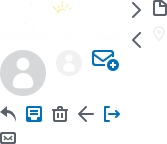
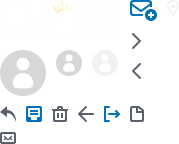
APQD-34 new mail contacts dropdown + fix counter in main nav

diff --git a/src/main/scss/_sprites.scss b/src/main/scss/_sprites.scss
@@ -12,16 +12,16 @@ At the bottom of this section, we provide information about the spritesheet itse
 $spritesheet: width height image $spritesheet-sprites;
 */
 $icon-add-contact-name: 'icon-add-contact';
-$icon-add-contact-x: 92px;
-$icon-add-contact-y: 50px;
-$icon-add-contact-offset-x: -92px;
-$icon-add-contact-offset-y: -50px;
+$icon-add-contact-x: 130px;
+$icon-add-contact-y: 0px;
+$icon-add-contact-offset-x: -130px;
+$icon-add-contact-offset-y: 0px;
 $icon-add-contact-width: 27px;
 $icon-add-contact-height: 21px;
-$icon-add-contact-total-width: 167px;
+$icon-add-contact-total-width: 179px;
 $icon-add-contact-total-height: 144px;
 $icon-add-contact-image: '../images/global.png';
-$icon-add-contact: (92px, 50px, -92px, -50px, 27px, 21px, 167px, 144px, '../images/global.png', 'icon-add-contact', );
+$icon-add-contact: (130px, 0px, -130px, 0px, 27px, 21px, 179px, 144px, '../images/global.png', 'icon-add-contact', );
 $icon-aside-inbox-name: 'icon-aside-inbox';
 $icon-aside-inbox-x: 26px;
 $icon-aside-inbox-y: 106px;
@@ -29,10 +29,10 @@ $icon-aside-inbox-offset-x: -26px;
 $icon-aside-inbox-offset-y: -106px;
 $icon-aside-inbox-width: 16px;
 $icon-aside-inbox-height: 16px;
-$icon-aside-inbox-total-width: 167px;
+$icon-aside-inbox-total-width: 179px;
 $icon-aside-inbox-total-height: 144px;
 $icon-aside-inbox-image: '../images/global.png';
-$icon-aside-inbox: (26px, 106px, -26px, -106px, 16px, 16px, 167px, 144px, '../images/global.png', 'icon-aside-inbox', );
+$icon-aside-inbox: (26px, 106px, -26px, -106px, 16px, 16px, 179px, 144px, '../images/global.png', 'icon-aside-inbox', );
 $icon-back-arrow-name: 'icon-back-arrow';
 $icon-back-arrow-x: 78px;
 $icon-back-arrow-y: 106px;
@@ -40,32 +40,43 @@ $icon-back-arrow-offset-x: -78px;
 $icon-back-arrow-offset-y: -106px;
 $icon-back-arrow-width: 16px;
 $icon-back-arrow-height: 16px;
-$icon-back-arrow-total-width: 167px;
+$icon-back-arrow-total-width: 179px;
 $icon-back-arrow-total-height: 144px;
 $icon-back-arrow-image: '../images/global.png';
-$icon-back-arrow: (78px, 106px, -78px, -106px, 16px, 16px, 167px, 144px, '../images/global.png', 'icon-back-arrow', );
+$icon-back-arrow: (78px, 106px, -78px, -106px, 16px, 16px, 179px, 144px, '../images/global.png', 'icon-back-arrow', );
+$icon-contact-name: 'icon-contact';
+$icon-contact-x: 56px;
+$icon-contact-y: 50px;
+$icon-contact-offset-x: -56px;
+$icon-contact-offset-y: -50px;
+$icon-contact-width: 26px;
+$icon-contact-height: 26px;
+$icon-contact-total-width: 179px;
+$icon-contact-total-height: 144px;
+$icon-contact-image: '../images/global.png';
+$icon-contact: (56px, 50px, -56px, -50px, 26px, 26px, 179px, 144px, '../images/global.png', 'icon-contact', );
 $icon-drafts-name: 'icon-drafts';
-$icon-drafts-x: 153px;
-$icon-drafts-y: 0px;
-$icon-drafts-offset-x: -153px;
-$icon-drafts-offset-y: 0px;
+$icon-drafts-x: 130px;
+$icon-drafts-y: 106px;
+$icon-drafts-offset-x: -130px;
+$icon-drafts-offset-y: -106px;
 $icon-drafts-width: 14px;
 $icon-drafts-height: 16px;
-$icon-drafts-total-width: 167px;
+$icon-drafts-total-width: 179px;
 $icon-drafts-total-height: 144px;
 $icon-drafts-image: '../images/global.png';
-$icon-drafts: (153px, 0px, -153px, 0px, 14px, 16px, 167px, 144px, '../images/global.png', 'icon-drafts', );
+$icon-drafts: (130px, 106px, -130px, -106px, 14px, 16px, 179px, 144px, '../images/global.png', 'icon-drafts', );
 $icon-facilities-name: 'icon-facilities';
-$icon-facilities-x: 153px;
-$icon-facilities-y: 26px;
-$icon-facilities-offset-x: -153px;
-$icon-facilities-offset-y: -26px;
+$icon-facilities-x: 167px;
+$icon-facilities-y: 0px;
+$icon-facilities-offset-x: -167px;
+$icon-facilities-offset-y: 0px;
 $icon-facilities-width: 12px;
 $icon-facilities-height: 16px;
-$icon-facilities-total-width: 167px;
+$icon-facilities-total-width: 179px;
 $icon-facilities-total-height: 144px;
 $icon-facilities-image: '../images/global.png';
-$icon-facilities: (153px, 26px, -153px, -26px, 12px, 16px, 167px, 144px, '../images/global.png', 'icon-facilities', );
+$icon-facilities: (167px, 0px, -167px, 0px, 12px, 16px, 179px, 144px, '../images/global.png', 'icon-facilities', );
 $icon-inbox-name: 'icon-inbox';
 $icon-inbox-x: 26px;
 $icon-inbox-y: 132px;
@@ -73,32 +84,32 @@ $icon-inbox-offset-x: -26px;
 $icon-inbox-offset-y: -132px;
 $icon-inbox-width: 16px;
 $icon-inbox-height: 12px;
-$icon-inbox-total-width: 167px;
+$icon-inbox-total-width: 179px;
 $icon-inbox-total-height: 144px;
 $icon-inbox-image: '../images/global.png';
-$icon-inbox: (26px, 132px, -26px, -132px, 16px, 12px, 167px, 144px, '../images/global.png', 'icon-inbox', );
+$icon-inbox: (26px, 132px, -26px, -132px, 16px, 12px, 179px, 144px, '../images/global.png', 'icon-inbox', );
 $icon-pagination-arrow-left-name: 'icon-pagination-arrow-left';
 $icon-pagination-arrow-left-x: 130px;
-$icon-pagination-arrow-left-y: 30px;
+$icon-pagination-arrow-left-y: 61px;
 $icon-pagination-arrow-left-offset-x: -130px;
-$icon-pagination-arrow-left-offset-y: -30px;
+$icon-pagination-arrow-left-offset-y: -61px;
 $icon-pagination-arrow-left-width: 13px;
 $icon-pagination-arrow-left-height: 20px;
-$icon-pagination-arrow-left-total-width: 167px;
+$icon-pagination-arrow-left-total-width: 179px;
 $icon-pagination-arrow-left-total-height: 144px;
 $icon-pagination-arrow-left-image: '../images/global.png';
-$icon-pagination-arrow-left: (130px, 30px, -130px, -30px, 13px, 20px, 167px, 144px, '../images/global.png', 'icon-pagination-arrow-left', );
+$icon-pagination-arrow-left: (130px, 61px, -130px, -61px, 13px, 20px, 179px, 144px, '../images/global.png', 'icon-pagination-arrow-left', );
 $icon-pagination-arrow-right-name: 'icon-pagination-arrow-right';
 $icon-pagination-arrow-right-x: 130px;
-$icon-pagination-arrow-right-y: 0px;
+$icon-pagination-arrow-right-y: 31px;
 $icon-pagination-arrow-right-offset-x: -130px;
-$icon-pagination-arrow-right-offset-y: 0px;
+$icon-pagination-arrow-right-offset-y: -31px;
 $icon-pagination-arrow-right-width: 13px;
 $icon-pagination-arrow-right-height: 20px;
-$icon-pagination-arrow-right-total-width: 167px;
+$icon-pagination-arrow-right-total-width: 179px;
 $icon-pagination-arrow-right-total-height: 144px;
 $icon-pagination-arrow-right-image: '../images/global.png';
-$icon-pagination-arrow-right: (130px, 0px, -130px, 0px, 13px, 20px, 167px, 144px, '../images/global.png', 'icon-pagination-arrow-right', );
+$icon-pagination-arrow-right: (130px, 31px, -130px, -31px, 13px, 20px, 179px, 144px, '../images/global.png', 'icon-pagination-arrow-right', );
 $icon-recycle-bin-name: 'icon-recycle-bin';
 $icon-recycle-bin-x: 52px;
 $icon-recycle-bin-y: 106px;
@@ -106,10 +117,10 @@ $icon-recycle-bin-offset-x: -52px;
 $icon-recycle-bin-offset-y: -106px;
 $icon-recycle-bin-width: 16px;
 $icon-recycle-bin-height: 16px;
-$icon-recycle-bin-total-width: 167px;
+$icon-recycle-bin-total-width: 179px;
 $icon-recycle-bin-total-height: 144px;
 $icon-recycle-bin-image: '../images/global.png';
-$icon-recycle-bin: (52px, 106px, -52px, -106px, 16px, 16px, 167px, 144px, '../images/global.png', 'icon-recycle-bin', );
+$icon-recycle-bin: (52px, 106px, -52px, -106px, 16px, 16px, 179px, 144px, '../images/global.png', 'icon-recycle-bin', );
 $icon-reply-msg-name: 'icon-reply-msg';
 $icon-reply-msg-x: 0px;
 $icon-reply-msg-y: 106px;
@@ -117,10 +128,10 @@ $icon-reply-msg-offset-x: 0px;
 $icon-reply-msg-offset-y: -106px;
 $icon-reply-msg-width: 16px;
 $icon-reply-msg-height: 16px;
-$icon-reply-msg-total-width: 167px;
+$icon-reply-msg-total-width: 179px;
 $icon-reply-msg-total-height: 144px;
 $icon-reply-msg-image: '../images/global.png';
-$icon-reply-msg: (0px, 106px, 0px, -106px, 16px, 16px, 167px, 144px, '../images/global.png', 'icon-reply-msg', );
+$icon-reply-msg: (0px, 106px, 0px, -106px, 16px, 16px, 179px, 144px, '../images/global.png', 'icon-reply-msg', );
 $icon-sent-name: 'icon-sent';
 $icon-sent-x: 0px;
 $icon-sent-y: 132px;
@@ -128,10 +139,10 @@ $icon-sent-offset-x: 0px;
 $icon-sent-offset-y: -132px;
 $icon-sent-width: 16px;
 $icon-sent-height: 12px;
-$icon-sent-total-width: 167px;
+$icon-sent-total-width: 179px;
 $icon-sent-total-height: 144px;
 $icon-sent-image: '../images/global.png';
-$icon-sent: (0px, 132px, 0px, -132px, 16px, 12px, 167px, 144px, '../images/global.png', 'icon-sent', );
+$icon-sent: (0px, 132px, 0px, -132px, 16px, 12px, 179px, 144px, '../images/global.png', 'icon-sent', );
 $icon-user-account-exit-name: 'icon-user-account-exit';
 $icon-user-account-exit-x: 104px;
 $icon-user-account-exit-y: 106px;
@@ -139,21 +150,21 @@ $icon-user-account-exit-offset-x: -104px;
 $icon-user-account-exit-offset-y: -106px;
 $icon-user-account-exit-width: 16px;
 $icon-user-account-exit-height: 16px;
-$icon-user-account-exit-total-width: 167px;
+$icon-user-account-exit-total-width: 179px;
 $icon-user-account-exit-total-height: 144px;
 $icon-user-account-exit-image: '../images/global.png';
-$icon-user-account-exit: (104px, 106px, -104px, -106px, 16px, 16px, 167px, 144px, '../images/global.png', 'icon-user-account-exit', );
+$icon-user-account-exit: (104px, 106px, -104px, -106px, 16px, 16px, 179px, 144px, '../images/global.png', 'icon-user-account-exit', );
 $icon-user-account-name: 'icon-user-account';
-$icon-user-account-x: 56px;
+$icon-user-account-x: 92px;
 $icon-user-account-y: 50px;
-$icon-user-account-offset-x: -56px;
+$icon-user-account-offset-x: -92px;
 $icon-user-account-offset-y: -50px;
 $icon-user-account-width: 26px;
 $icon-user-account-height: 26px;
-$icon-user-account-total-width: 167px;
+$icon-user-account-total-width: 179px;
 $icon-user-account-total-height: 144px;
 $icon-user-account-image: '../images/global.png';
-$icon-user-account: (56px, 50px, -56px, -50px, 26px, 26px, 167px, 144px, '../images/global.png', 'icon-user-account', );
+$icon-user-account: (92px, 50px, -92px, -50px, 26px, 26px, 179px, 144px, '../images/global.png', 'icon-user-account', );
 $icon-user-accout-popup-name: 'icon-user-accout-popup';
 $icon-user-accout-popup-x: 0px;
 $icon-user-accout-popup-y: 50px;
@@ -161,10 +172,10 @@ $icon-user-accout-popup-offset-x: 0px;
 $icon-user-accout-popup-offset-y: -50px;
 $icon-user-accout-popup-width: 46px;
 $icon-user-accout-popup-height: 46px;
-$icon-user-accout-popup-total-width: 167px;
+$icon-user-accout-popup-total-width: 179px;
 $icon-user-accout-popup-total-height: 144px;
 $icon-user-accout-popup-image: '../images/global.png';
-$icon-user-accout-popup: (0px, 50px, 0px, -50px, 46px, 46px, 167px, 144px, '../images/global.png', 'icon-user-accout-popup', );
+$icon-user-accout-popup: (0px, 50px, 0px, -50px, 46px, 46px, 179px, 144px, '../images/global.png', 'icon-user-accout-popup', );
 $logo-name: 'logo';
 $logo-x: 0px;
 $logo-y: 0px;
@@ -172,15 +183,15 @@ $logo-offset-x: 0px;
 $logo-offset-y: 0px;
 $logo-width: 120px;
 $logo-height: 40px;
-$logo-total-width: 167px;
+$logo-total-width: 179px;
 $logo-total-height: 144px;
 $logo-image: '../images/global.png';
-$logo: (0px, 0px, 0px, 0px, 120px, 40px, 167px, 144px, '../images/global.png', 'logo', );
-$spritesheet-width: 167px;
+$logo: (0px, 0px, 0px, 0px, 120px, 40px, 179px, 144px, '../images/global.png', 'logo', );
+$spritesheet-width: 179px;
 $spritesheet-height: 144px;
 $spritesheet-image: '../images/global.png';
-$spritesheet-sprites: ($icon-add-contact, $icon-aside-inbox, $icon-back-arrow, $icon-drafts, $icon-facilities, $icon-inbox, $icon-pagination-arrow-left, $icon-pagination-arrow-right, $icon-recycle-bin, $icon-reply-msg, $icon-sent, $icon-user-account-exit, $icon-user-account, $icon-user-accout-popup, $logo, );
-$spritesheet: (167px, 144px, '../images/global.png', $spritesheet-sprites, );
+$spritesheet-sprites: ($icon-add-contact, $icon-aside-inbox, $icon-back-arrow, $icon-contact, $icon-drafts, $icon-facilities, $icon-inbox, $icon-pagination-arrow-left, $icon-pagination-arrow-right, $icon-recycle-bin, $icon-reply-msg, $icon-sent, $icon-user-account-exit, $icon-user-account, $icon-user-accout-popup, $logo, );
+$spritesheet: (179px, 144px, '../images/global.png', $spritesheet-sprites, );
 
 /*
 The provided mixins are intended to be used with the array-like variables

diff --git a/src/main/webapp/scripts/app/mailbox/inbox/inbox.html b/src/main/webapp/scripts/app/mailbox/inbox/inbox.html
@@ -338,6 +338,31 @@
                         <input type="text" class="ch-new-mail-field__input">
                     </div>
                 </div>
+                <div class="ch-new-mail__row ch-new-mail__row_no-pad">
+                    <div class="ch-contacts-dropdown">
+                        <a href="" class="ch-close-btn"></a>
+                        <ul class="ch-contacts-list">
+                            <li class="ch-contacts-list__item">
+                                <div class="ch-contact-id">
+                                    <span class="icon icon-contact ch-contact-id__icon"></span>
+                                    <span class="ch-contact-id__name">Sandra Derick </span>
+                                </div>
+                            </li>
+                            <li class="ch-contacts-list__item">
+                                <div class="ch-contact-id">
+                                    <span class="icon icon-contact ch-contact-id__icon"></span>
+                                    <span class="ch-contact-id__name">Josh Bryceland</span>
+                                </div>
+                            </li>
+                            <li class="ch-contacts-list__item">
+                                <div class="ch-contact-id">
+                                    <span class="icon icon-contact ch-contact-id__icon"></span>
+                                    <span class="ch-contact-id__name">Lee Sally</span>
+                                </div>
+                            </li>
+                        </ul>
+                    </div>
+                </div>
                 <div class="ch-new-mail__row">
                     <div class="ch-new-mail-field">
                         <input type="text" class="ch-new-mail-field__input" placeholder="Subject:">

diff --git a/src/main/scss/modules/_mailbox-content.scss b/src/main/scss/modules/_mailbox-content.scss
@@ -154,6 +154,10 @@
     border-bottom: 1px solid #cbcdcf;
 }
 
+.ch-new-mail__row.ch-new-mail__row_no-pad {
+    padding: 0;
+}
+
 .ch-new-mail__row:last-child {
     border: none;
 }
@@ -182,4 +186,45 @@
 
 .ch-mail-heading__item_action-group {
     flex: 0 0 11rem;
+}
+
+.ch-contacts-dropdown {
+    padding: 3rem;
+    background: #f1f1f1;
+    position: relative;
+}
+
+.ch-contacts-list__item {
+    padding: 1rem 0;
+    margin-bottom: .5rem;
+    cursor: pointer;
+}
+
+.ch-contacts-list__item:first-child {
+    padding-top: 0;
+}
+
+.ch-contacts-list__item:last-child {
+    padding-bottom: 0;
+    margin: 0;
+}
+
+.ch-contact-id__icon {
+    vertical-align: middle;
+    margin-right: 1rem;
+}
+
+.ch-contact-id__name {
+    vertical-align: middle;
+    font-size: 1.5rem;
+    font-weight: 600;
+    color: #000;
+}
+
+.ch-close-btn {
+    position: absolute;
+    right: 0;
+    top: 0;
+    background: url(../images/out-sprite-icons/icon-close-btn.png) 50% 50% no-repeat;
+    padding: 1.5rem;
 }

diff --git a/src/main/webapp/index.html b/src/main/webapp/index.html
@@ -62,7 +62,7 @@
                                            <span class="icon icon-user-account ch-user-account-entry__dropdown-icon ch-user-account-entry__dropdown-icon_user-account"></span>
                                        </button>
                                    </div>
-                                   <div class="ch-user-account-entry__popup">
+                                   <div class="ch-user-account-entry__popup" style="display: none;">
                                        <div class="ch-user-account-popup">
                                             <div class="ch-user-account-popup__info">
                                                 <span class="icon  icon-user-accout-popup ch-user-account-popup__icon"></span>

diff --git a/src/main/webapp/scripts/components/main-nav/main.nav.html b/src/main/webapp/scripts/components/main-nav/main.nav.html
@@ -3,7 +3,10 @@
         <div class="ch-main-nav-item">
             <a class="ch-main-nav-item__link" ui-sref="ch-inbox.inbox" ui-sref-active="ch-main-nav-item__link_active">
                 <span class="icon icon-inbox ch-main-nav-item__icon"></span>
-                <span class="ch-main-nav-item__text ch-main-nav-item__text_badge-notify">Inbox</span>
+                <div class="ch-main-nav-item__text-bundle">
+                    <span class="ch-main-nav-item__text">Inbox</span>
+                    <span class="ch-main-nav-item__inbox-counter">5</span>
+                </div>
             </a>
         </div>
     </li>

diff --git a/src/main/scss/modules/_header-main-nav.scss b/src/main/scss/modules/_header-main-nav.scss
@@ -18,6 +18,11 @@
     background: #4e5664;
 }
 
+.ch-main-nav-item__text-bundle {
+    display: inline-block;
+    position: relative;
+}
+
 .ch-main-nav-item__text {
     display: inline-block;
     font-size: 1.5rem;
@@ -38,4 +43,18 @@
 
 .ch-main-nav-item__icon {
     margin-right: 1rem;
+}
+
+.ch-main-nav-item__inbox-counter {
+    position: absolute;
+    border-radius: 50%;
+    top: -.8rem;
+    right: -1.6rem;
+    background: #fdb81e;
+    width: 2rem;
+    height: 2rem;
+    font-size: 1.1rem;
+    color: #fff;
+    text-align: center;
+    padding: .2rem 0 0;
 }
